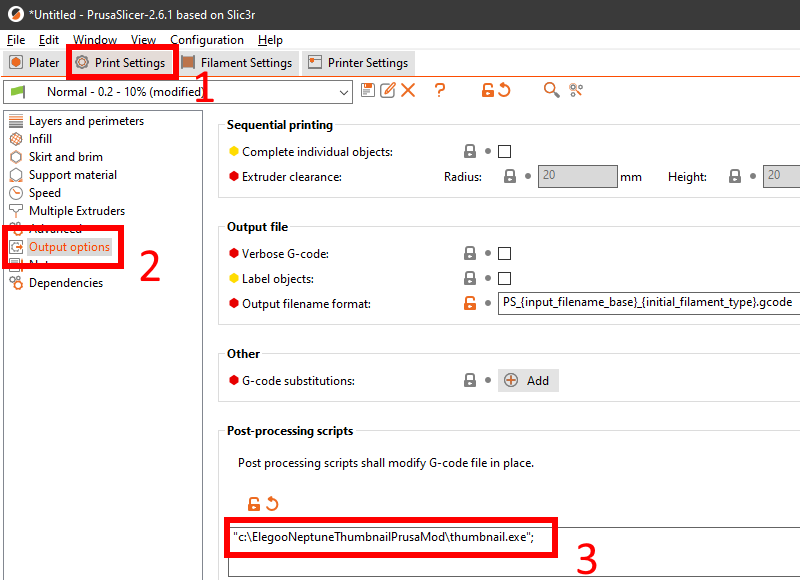
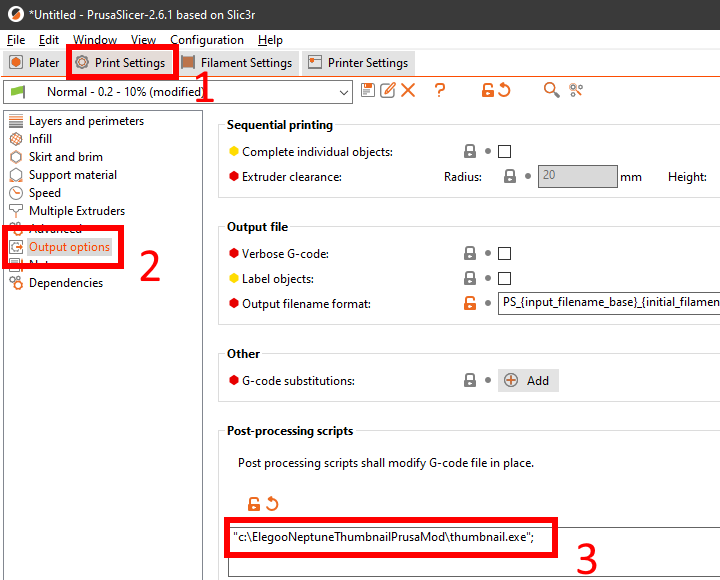
.

diff --git a/README.md b/README.md
@@ -32,8 +32,8 @@ Main changes:
 - 'Printer Settings' / 'Format of G-code thumbnails' -- select PNG or JPG (it may also work with QOI but I have not checked it);
 - 'Print Settings' / 'Post-processing scripts' -- specify path exeutable: `"C:\ElegooNeptuneThumbnailPrusaMod\thumbnail.exe";`
 
-<img src="images/printer_settings.png" width="800" />
-<img src="images/printer_settings.png" width="800" />
+<img src="images/printer_settings.png" width="720" />
+<img src="images/printer_settings.png" width="720" />
 
 PrusaSlicer should now run the exe when you export the g-code.
 
